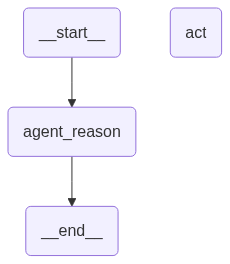
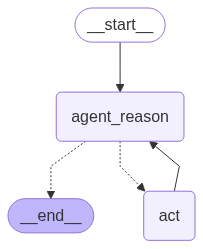
ReAct Agent: Modify the image of the graph

Changed region(s): [[0.0296, 0.0, 0.9754, 0.9839], [0.6502, 0.6466, 0.9754, 0.9839], [0.7685, 0.8434, 0.8867, 0.8996]]

diff --git a/react-agent/main.py b/react-agent/main.py
@@ -29,12 +29,19 @@ flow.add_node(ACT, execute_tools)
 flow.add_conditional_edges(
     AGENT_REASON,
     should_continue,
+    {
+        ACT: ACT,
+        END: END,
+    },
 )
 
 flow.add_edge(ACT, AGENT_REASON)
 
 app = flow.compile()
-app.get_graph().draw_mermaid_png(output_file_path="graph.png")
+# app.get_graph().draw_mermaid_png(output_file_path="graph.png")
+with open("graph.png", "wb") as f:
+        f.write(app.get_graph().draw_mermaid_png())
+
 
 if __name__ == "__main__":
     print("Hello ReAct with LangGraph")
